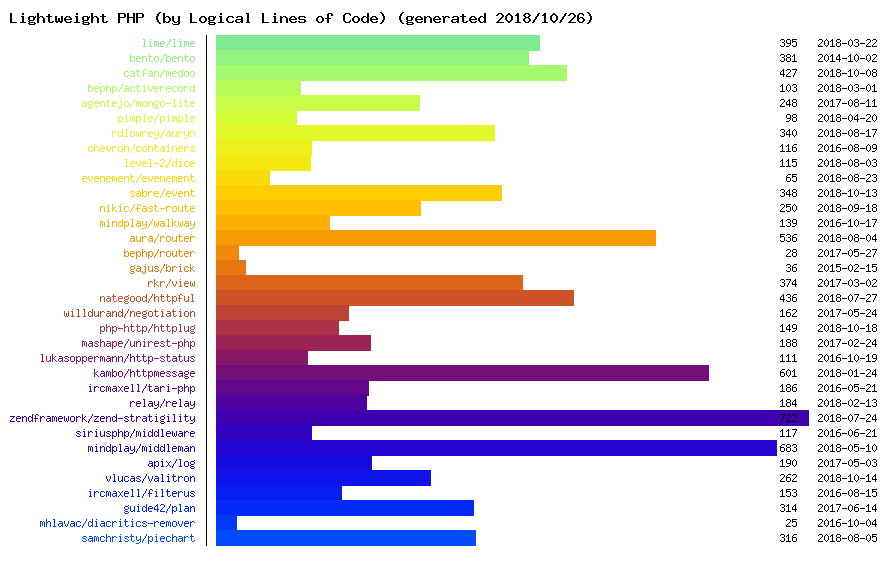
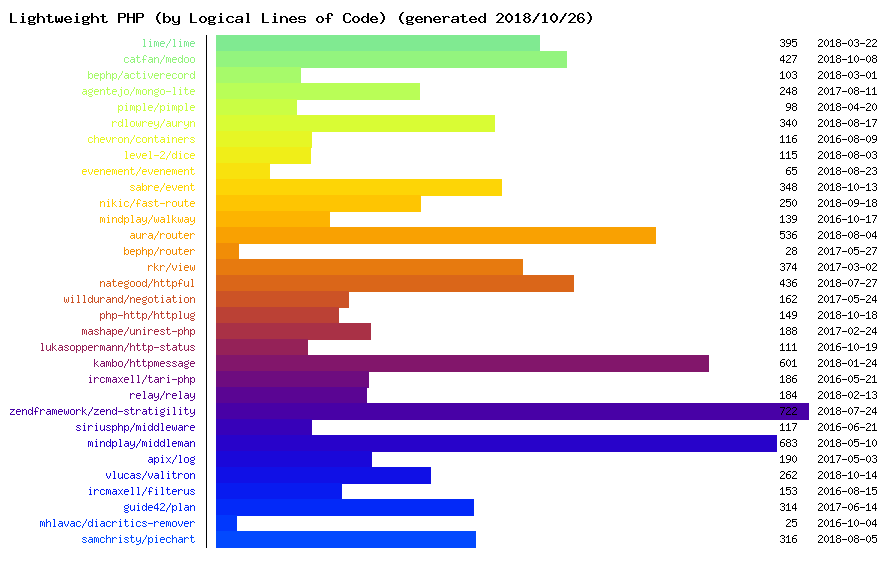
Remove old (>=3 years) projects

diff --git a/README.md b/README.md
@@ -19,7 +19,6 @@ List of lightweight PHP libraries.
 ## Frameworks
 
 * [Lime](https://github.com/aheinze/Lime) - Micro framework for quickly creating web applications with minimal effort
-* [Bento](https://github.com/nramenta/bento) - Simple PHP micro framework
 
 ## Database
 
@@ -49,7 +48,6 @@ List of lightweight PHP libraries.
 
 ## Templating
 
-* [Brick](https://github.com/gajus/brick) - PHP template system that's fast, easy to use and easy to extend
 * [php-view](https://github.com/rkrx/php-view) - More secure and easy to use templating system for php5.4+
 
 ## HTTP
